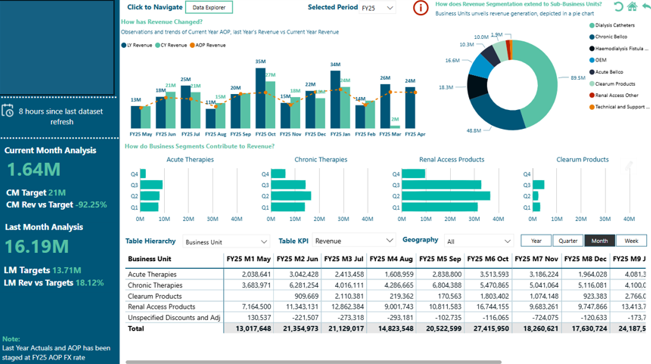
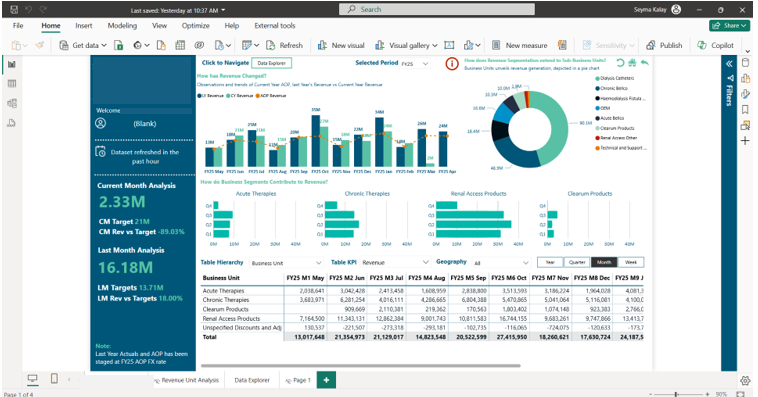
commit

diff --git a/docs/powerbi.html b/docs/powerbi.html
@@ -487,6 +487,19 @@ output:
    #  - \usepackage{placeins}
 ---
 
+---
+title: ""
+output:
+  html_document:
+    toc: TRUE
+    toc_float: TRUE
+    theme: flatly
+    highlight: tango
+#header-includes:
+#- \usepackage{caption}  
+   #  - \usepackage{placeins}
+---
+
  
 ---
 title: ""
@@ -1123,7 +1136,8 @@ in
 
     #&quot;Inserted Local Time&quot;
 </code></pre>
-<p>Let's create a measure and call it Time Since Last Refresh.</p>
+<p>Let's create a measure and call it Time Since Last Refresh to inform
+the Power BI user as in <a href="#New_Parameter">Figure 1</a>.</p>
 <pre><code>Time Since Last Refresh =
 var _currTm = UTCNOW()
 
@@ -1242,14 +1256,14 @@ CALCULATE( [Inventory],
 the same methodology below.</p>
 <div class="my-right-figure">
 <div class="figure" style="text-align: center">
-<img src="images/SampleData4Last2WeeksChange.jpg" alt=" " width="75%" />
+<img src="images/SampleData4Last2WeeksChange.jpg" alt=" " width="100%" />
 <p class="caption">
 </p>
 </div>
 </div>
 <div class="my-right-figure">
 <div class="figure" style="text-align: center">
-<img src="images/Last2WeeksChange.jpg" alt=" " width="75%" />
+<img src="images/Last2WeeksChange.jpg" alt=" " width="100%" />
 <p class="caption">
 </p>
 </div>
@@ -1340,9 +1354,10 @@ options into the viz.</p>
 <p>The new parameters help to create the table with ease and provides
 more filtering option.</p>
 <div class="my-right-figure">
-<div class="figure" style="text-align: center">
-<img src="images/revenuetab.png" alt=" " width="90%" />
+<div class="figure" style="text-align: left">
+<img src="images/revenue.png" alt="Figure 1" width="100%" />
 <p class="caption">
+Figure 1
 </p>
 </div>
 </div>
@@ -1769,12 +1784,61 @@ RETURN
 </div>
 <div id="data-modeling" class="section level1">
 <h1>Data Modeling</h1>
+<p>First, let's learn what not to do!</p>
+<body>
+<ul>
+<li>
+Don't overload your model.
+</li>
+<li>
+Don't use the same semantic model.
+</li>
+<li>
+Don't keep in the report unused DAX and tables.
+</li>
+</ul>
+</body>
+<div class="my-right-figure">
+<div class="figure" style="text-align: center">
+<img src="images/DataModeling.png" alt=" " width="100%" />
+<p class="caption">
+</p>
+</div>
+</div>
+<p>Let's learn what to do!</p>
+<body>
+<ul>
+<li>
+Create a Power BI template where you can have the min necessary tables
+(dimCalander, dimCurrency, FactFX, etc.) and DAX measures (Last time to
+Refresh, Personal Greetings Login Name, Time Intelligence, etc.).
+</li>
+<li>
+Build smaller Power BI reports.
+</li>
+<li>
+Create each time a new semantic model.
+</li>
+<li>
+Avoid using Direct Query or Lived Connection.
+</li>
+</ul>
+</body>
+A desirable Power BI report probably won't take more than 5 pages and
+the data model will look as simple as below.
+<div class="my-right-figure">
+<div class="figure" style="text-align: center">
+<img src="images/DataModelingSimple.png" alt=" " width="100%" />
+<p class="caption">
+</p>
+</div>
+</div>
 <div id="bridge-table" class="section level2">
 <h2>Bridge Table</h2>
 <p>Bridge tables are used to remove multi-multi relationship.</p>
 <div class="my-right-figure">
 <div class="figure" style="text-align: center">
-<img src="images/datamodelling.png" alt=" " width="75%" />
+<img src="images/datamodelling.png" alt=" " width="100%" />
 <p class="caption">
 </p>
 </div>
@@ -1875,7 +1939,8 @@ RETURN _addSourceFacts</code></pre>
 </div>
 <div id="greeting-the-user" class="section level1">
 <h1>Greeting the User</h1>
-<p>Let's create a measure to greet the Power BI user.</p>
+<p>Let's create a measure to greet the Power BI user as in <a
+href="#Viz-Ideas">Figure 1</a>.</p>
 <pre><code>Logged In User Name = 
 VAR _user_name =
         LOOKUPVALUE (
@@ -1950,7 +2015,7 @@ $(document).ready(function ()  {
 
     // establish options
     var options = {
-      selectors: "h1,h2,h3",
+      selectors: "h1,h2",
       theme: "bootstrap3",
       context: '.toc-content',
       hashGenerator: function (text) {
